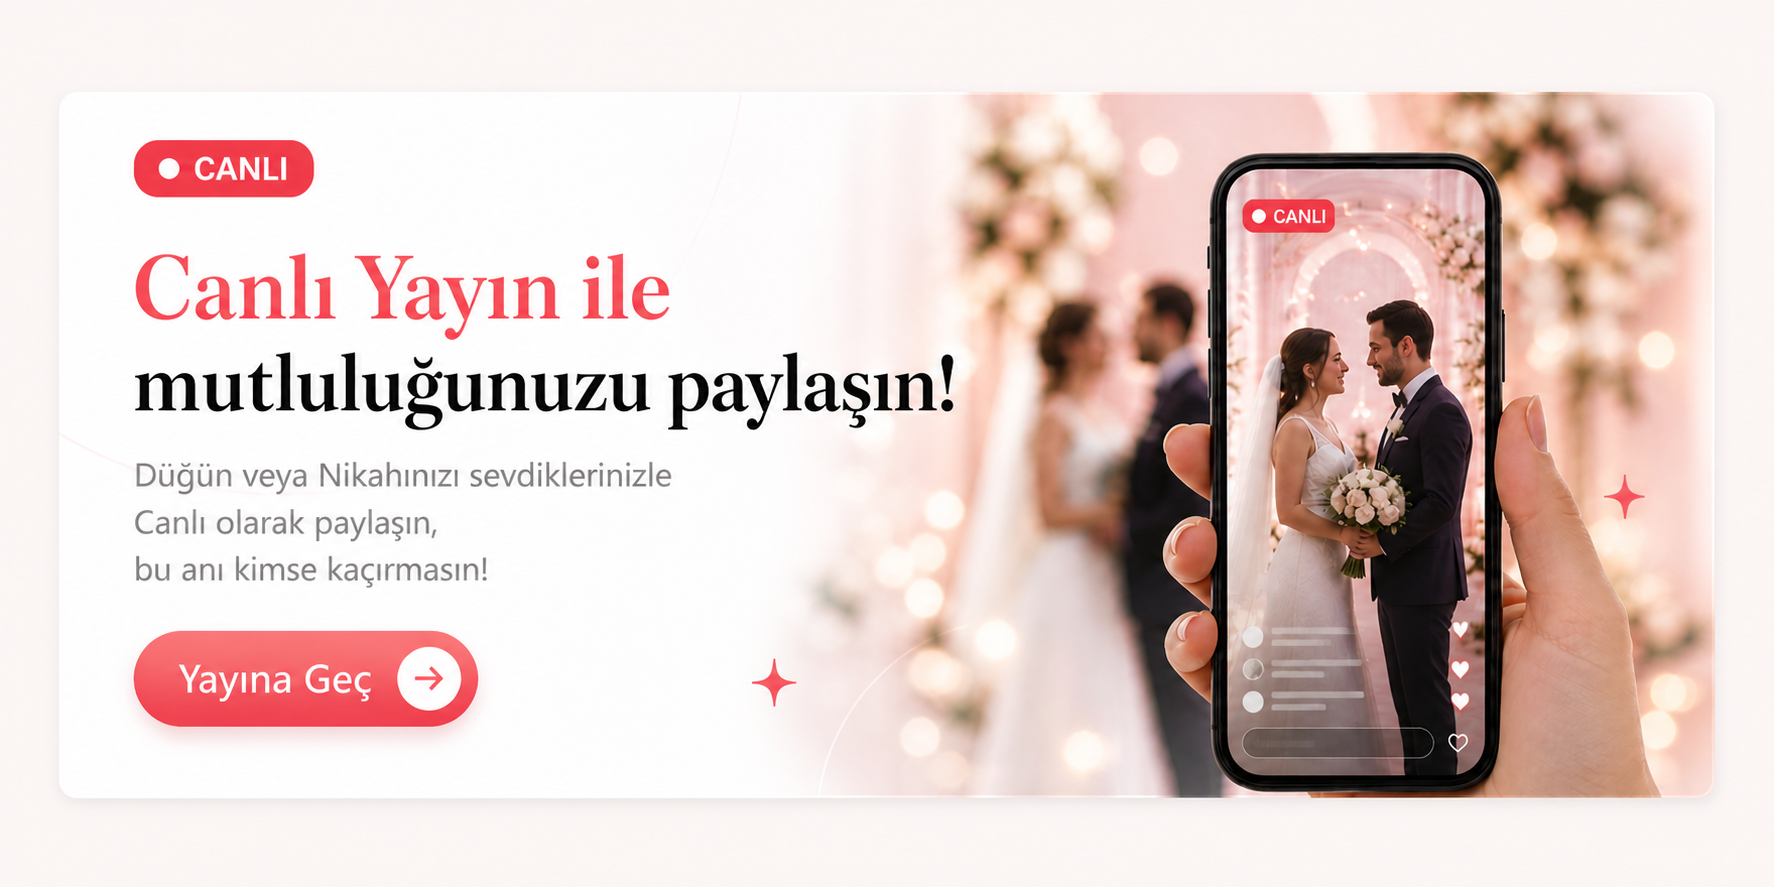
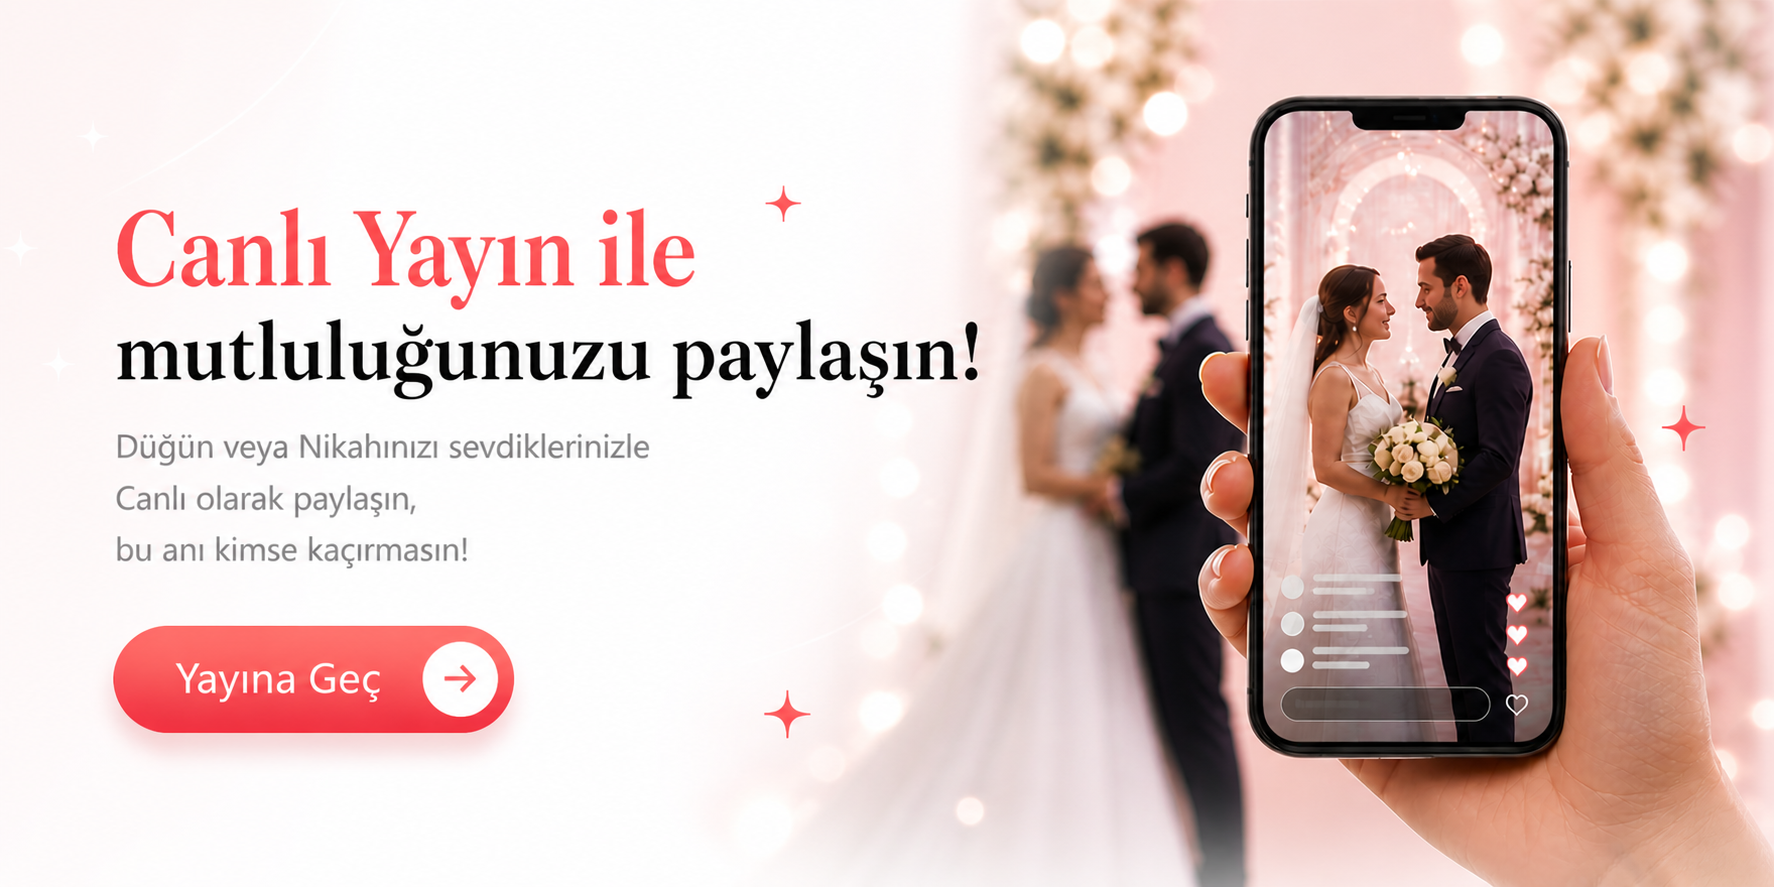
Adim 73: yeni Canli Yayin Kart 5 + cerceve kose yuvarlama
- PNG: Canli Yayin Kart 5.png yuklendi (kenarlari kare PNG)
- Container: rounded-3xl overflow-hidden (24px kose yuvarlama)
- Img: w-full h-auto (PNG dogal aspect korunur, full-width fills container)
- absolute/min-h kaldirildi (basit yapi yeterli)

diff --git a/app/page.tsx b/app/page.tsx
@@ -272,13 +272,12 @@ export default function Home() {
             <Image src="/canli-yayin-kart-mobil.png" alt="Canlı Yayın ile mutluluğunuzu paylaşın" width={1024} height={1024} className="w-full h-auto block" priority />
           </div>
 
-          {/* MASAÜSTÜ-ONLY: Canlı Yayın Kart — gold kart ile birebir aynı yapı (relative + absolute img + min-h) */}
+          {/* MASAÜSTÜ-ONLY: Canlı Yayın Kart — köşeler yuvarlatıldı (rounded-3xl overflow-hidden) */}
           <div
-            className="hidden lg:block relative rounded-3xl overflow-hidden cursor-pointer transition-transform hover:scale-[1.005]"
-            style={{ minHeight: 360 }}
+            className="hidden lg:block rounded-3xl overflow-hidden cursor-pointer transition-transform hover:scale-[1.005]"
             onClick={() => setShowAppPopup(true)}
           >
-            <img src="/canli-yayin-kart-masaustu.png" alt="Canlı Yayın ile mutluluğunuzu paylaşın" className="absolute inset-0 w-full h-full object-cover pointer-events-none select-none" />
+            <img src="/canli-yayin-kart-masaustu.png" alt="Canlı Yayın ile mutluluğunuzu paylaşın" className="w-full h-auto block" />
           </div>
 
           {/* Altınlarınızı Online Toplayın - kart */}
